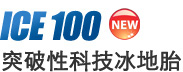
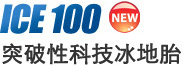
ice100图片修改

diff --git a/public/ice100_detail.htm b/public/ice100_detail.htm
@@ -158,7 +158,7 @@
     <div id="site"><a href="products_mapping.htm">产品和服务</a><span>&gt;</span><a href="products_list_winter.htm">冬季轮胎产品</a><span>&gt;</span>
     <h1>ICE100</h1></div>
    <div id="productinfo">
-     <div class="img"><img src="image/ice100_detail_img01.jpg" width="233" height="150" /><!--<img src="image/ice100_detail_img01.jpg" alt="COOPER ICE 100 冬季轮胎" title="COOPER ICE 100 冬季轮胎" />--></div>
+     <div class="img"><img src="image/ice100_detail_img01.jpg" /><!--<img src="image/ice100_detail_img01.jpg" alt="COOPER ICE 100 冬季轮胎" title="COOPER ICE 100 冬季轮胎" />--></div>
      <div class="info">
        <div><img src="image/ice100_detail_img02.jpg" alt="COOPER ICE 100 冬季轮胎" title="COOPER ICE 100 冬季轮胎" /></div>
        <div class="content" style="border:0px;">COOPER ICE 100外观柔美细致，特有超“软”配方科技、“△”底纹以及极限密集刀槽，让您在冰地驰骋游刃有余，尽显王者霸气。</div>

diff --git a/public/css/products_detail.css b/public/css/products_detail.css
@@ -1,6 +1,6 @@
 #productinfo{ padding:20px 0px;}
 #productinfo .img{ float:left; width:240px; height:250px;}
-#productinfo .img img{ width:240px; height:250px;}
+/*#productinfo .img img{ width:240px; height:250px;}*/
 #productinfo .info{ padding:10px 0px 0px 0px; width:435px; float:right;}
 #productinfo .content{ line-height:19px; color:#585858; padding:5px 0px 10px 0px; border-bottom:dotted 1px #CBCBCB;}
 #productinfo .cart{ height:15px; line-height:15px; padding:10px 0px;}
